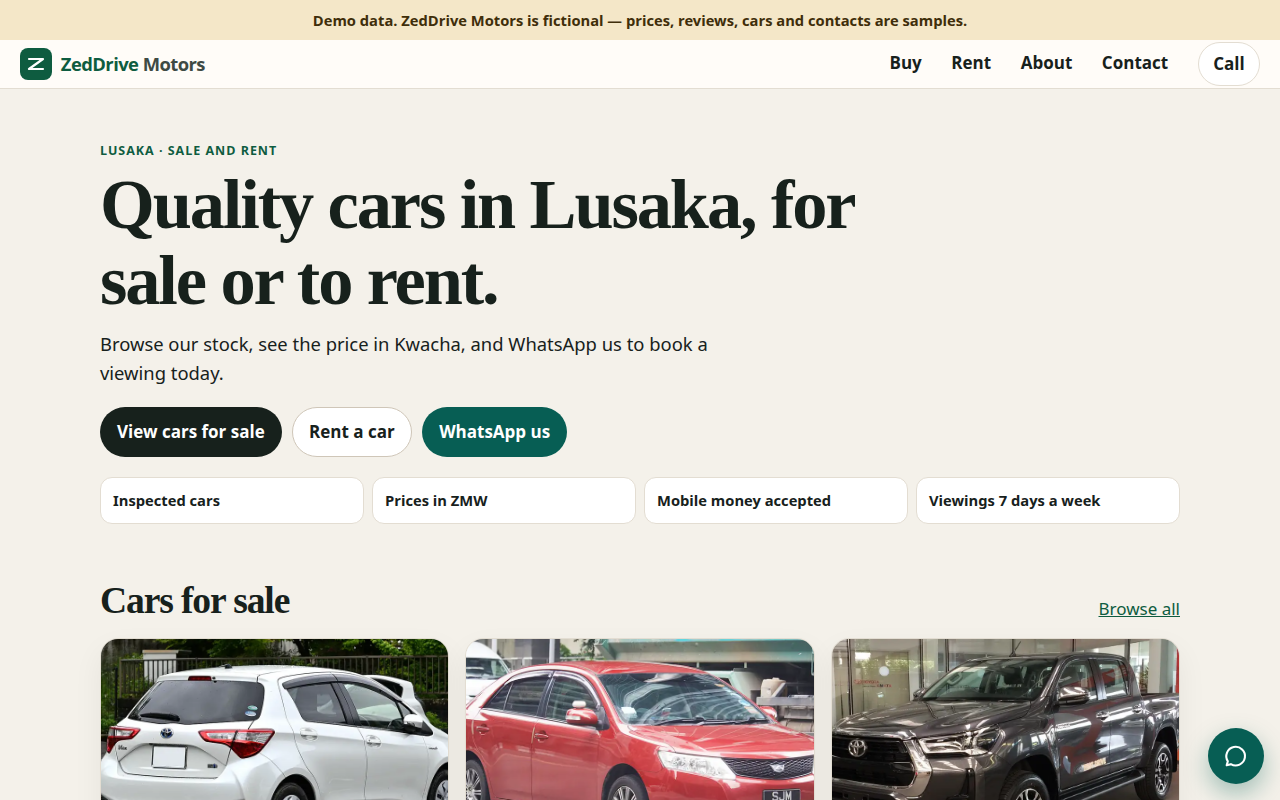
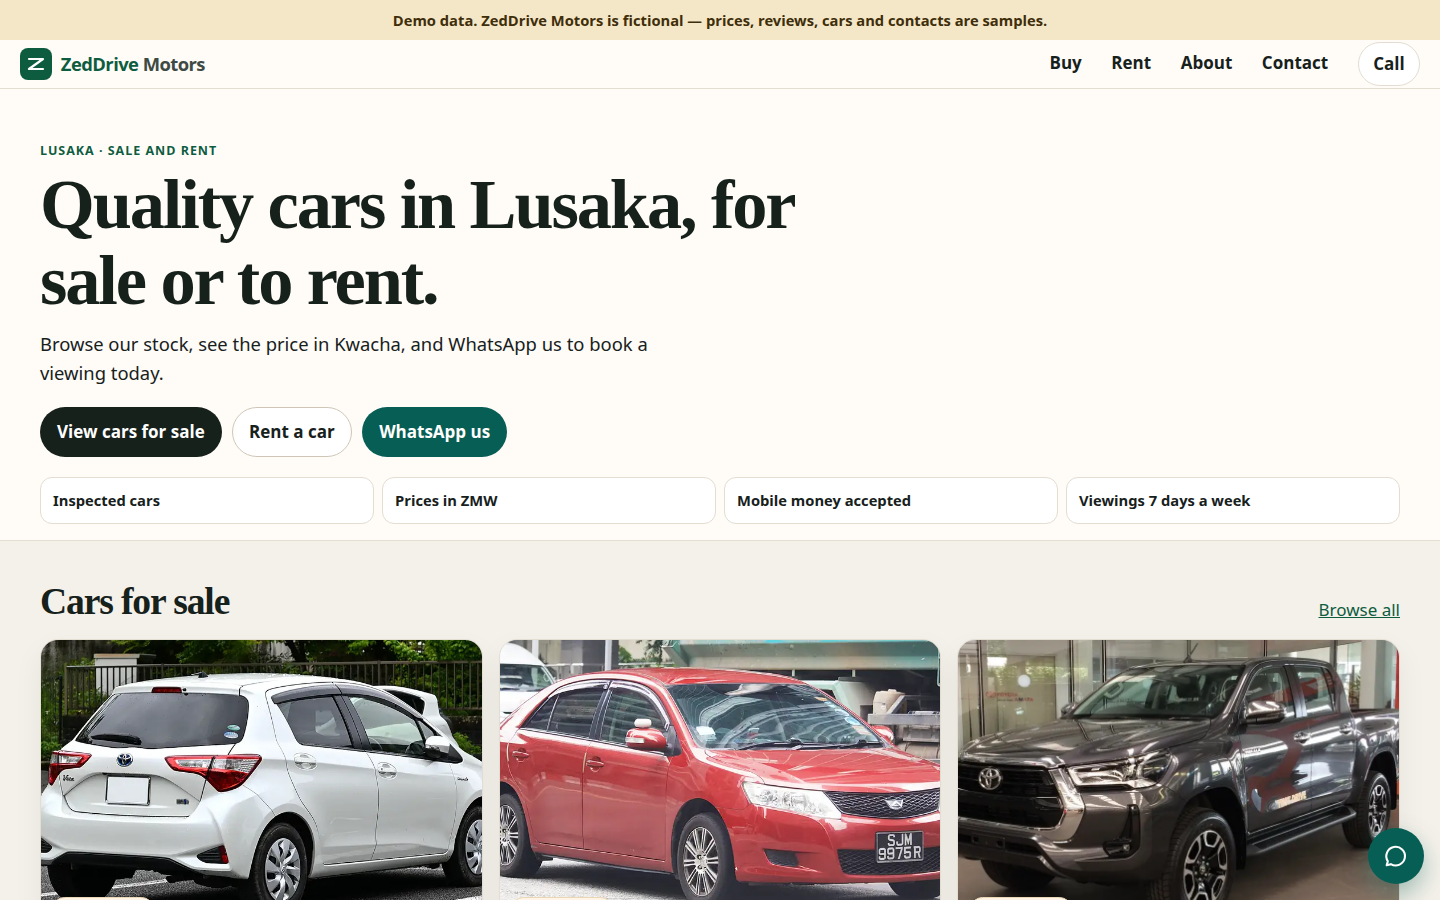
style: widen the desktop layout
Let the page use about 1360px, keep section backgrounds full width, and add card columns as the screen grows.

diff --git a/src/styles/main.css b/src/styles/main.css
@@ -52,8 +52,14 @@ p { margin: 0 0 0.8rem; }
 a { color: var(--green); }
 a:hover { color: #083826; }
 
-.wrap { width: min(1080px, calc(100% - 2rem)); margin-inline: auto; }
+.wrap { width: min(1360px, calc(100% - 2rem)); margin-inline: auto; }
 .section { padding: 2.6rem 0; }
+.hero {
+  background: var(--white);
+  border-bottom: 1px solid var(--line);
+}
+main > .section:nth-child(odd) { background: var(--white); }
+main.section { background: var(--white); }
 .lede { font-size: 1.15rem; max-width: 38rem; color: var(--ink); }
 .fine { color: var(--muted); font-size: 0.92rem; }
 .eyebrow {
@@ -178,7 +184,7 @@ a:hover { color: #083826; }
 }
 .section-head h2 { margin: 0; }
 
-.cards { display: grid; gap: 1rem; }
+.cards { display: grid; gap: 1rem; grid-template-columns: repeat(auto-fit, minmax(17.5rem, 1fr)); }
 .card {
   background: var(--white);
   border: 1px solid var(--line);
@@ -390,6 +396,11 @@ input:user-invalid, select:user-invalid, textarea:user-invalid { border-color: #
 .cal-day { background: #f3f6f4; border-radius: 8px; font-weight: 650; }
 .is-booked { background: #f8e4dc; color: #6e2c22; }
 .is-range { background: #d7f0e3; color: #083826; }
+.is-range.is-booked {
+  background: #f8e4dc;
+  color: #6e2c22;
+  box-shadow: inset 0 0 0 2px #0e5c40;
+}
 .cal-key { display: flex; flex-wrap: wrap; gap: 0.8rem; padding: 0; margin: 0.4rem 0 0; list-style: none; font-size: 0.85rem; }
 .cal-key li { display: flex; align-items: center; gap: 0.35rem; }
 .swatch { width: 0.9rem; height: 0.9rem; border-radius: 3px; display: inline-block; }
@@ -569,7 +580,6 @@ dialog.deposit::backdrop { background: rgba(23, 33, 28, 0.48); }
   .stack-actions { display: flex; flex-wrap: wrap; }
   .stack-actions .btn { width: auto; }
   .strip { grid-template-columns: repeat(4, 1fr); }
-  .cards { grid-template-columns: 1fr 1fr; }
   .filters { grid-template-columns: repeat(3, 1fr); }
   .quote-dates { grid-template-columns: 1fr 1fr; }
   .points, .reviews, .split, .footer-grid { grid-template-columns: 1fr 1fr; }
@@ -578,13 +588,18 @@ dialog.deposit::backdrop { background: rgba(23, 33, 28, 0.48); }
 }
 
 @media (min-width: 980px) {
-  .cards { grid-template-columns: 1fr 1fr 1fr; }
   .detail { grid-template-columns: 1.15fr 0.85fr; align-items: start; }
   .detail-more { grid-column: 1 / -1; }
   .detail-side { position: sticky; top: calc(var(--header) + 0.6rem); }
   .points { grid-template-columns: 1fr 1fr 1fr; }
   .footer-grid { grid-template-columns: 1.4fr 1fr 1fr; }
   .hero { padding-top: 3.2rem; }
+}
+
+@media (min-width: 1200px) {
+  .filters { grid-template-columns: repeat(6, 1fr); }
+  .trust-grid { grid-template-columns: repeat(4, 1fr); }
+  .reviews { grid-template-columns: repeat(3, 1fr); }
 }
 
 @media (hover: hover) and (prefers-reduced-motion: no-preference) {
